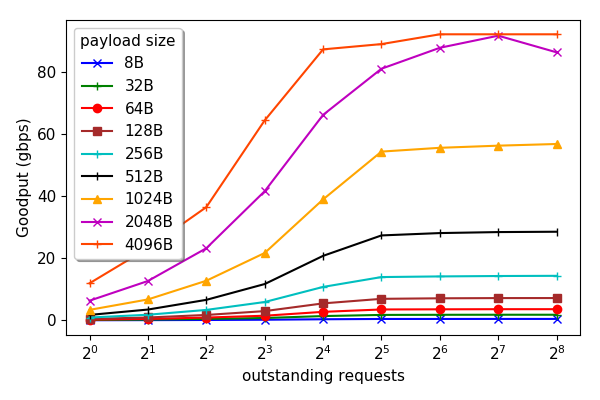
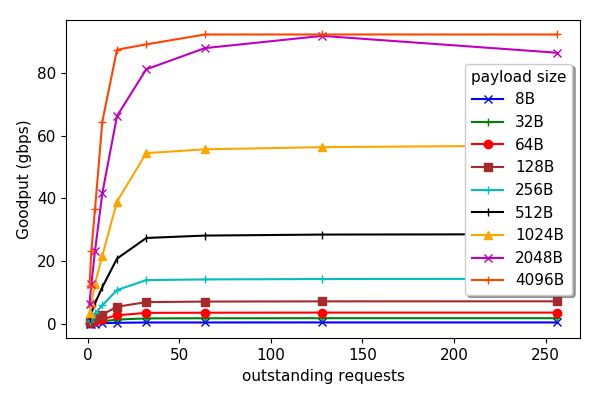
randomized access to mem buffers did not help

diff --git a/rdma/src/rdma_client.c b/rdma/src/rdma_client.c
@@ -55,6 +55,24 @@ static int check_src_dst()
     return memcmp((void*) src, (void*) dst, strlen(src));
 }
 
+
+/* A fast but good enough random number generator. Good enough for what? */
+/* Courtesy of https://stackoverflow.com/questions/1640258/need-a-fast-random-generator-for-c */
+unsigned long rand_xorshf96(void) {          //period 2^96-1
+    static unsigned long x=123456789, y=362436069, z=521288629;
+    unsigned long t;
+    x ^= x << 16;
+    x ^= x >> 5;
+    x ^= x << 1;
+
+    t = x;
+    x = y;
+    y = z;
+    z = t ^ x ^ y;
+    return z;
+}
+
+
 /* This function prepares client side connection resources for an RDMA connection */
 static int client_prepare_connection(struct sockaddr_in *s_addr)
 {
@@ -154,8 +172,9 @@ static int client_prepare_connection(struct sockaddr_in *s_addr)
         rdma_error("Failed to get device info, errno: %d\n", -errno);
         return -errno;
     }
-    debug("got device info. max qpe: %d, sge: %d, cqe: %d, max rd/at qp depth/outstanding: %d/%d \n", dev_attr.max_qp_wr, 
-        dev_attr.max_sge, dev_attr.max_cqe, dev_attr.max_qp_init_rd_atom, dev_attr.max_qp_rd_atom);
+    printf("got device info. max qpe: %d, sge: %d, cqe: %d, max rd/at qp depth/outstanding: %d/%d max mr size: %lu\n", 
+        dev_attr.max_qp_wr, dev_attr.max_sge, dev_attr.max_cqe, dev_attr.max_qp_init_rd_atom, dev_attr.max_qp_rd_atom, 
+        dev_attr.max_mr_size);
 
     /* Now we create a completion queue (CQ) where actual I/O 
      * completion metadata is placed. The metadata is packed into a structure 
@@ -423,17 +442,14 @@ static int client_remote_memory_ops()
     client_send_wr.wr.rdma.rkey = server_metadata_attr.stag.remote_stag;
     client_send_wr.wr.rdma.remote_addr = server_metadata_attr.address;
     /* Now we post it */
-    ret = ibv_post_send(client_qp, 
-               &client_send_wr,
-           &bad_client_send_wr);
+    ret = ibv_post_send(client_qp, &client_send_wr, &bad_client_send_wr);
     if (ret) {
         rdma_error("Failed to read client dst buffer from the master, errno: %d \n", 
                 -errno);
         return -errno;
     }
     /* at this point we are expecting 1 work completion for the write */
-    ret = process_work_completion_events(io_completion_channel, 
-            &wc, 1);
+    ret = process_work_completion_events(io_completion_channel, &wc, 1);
     if(ret != 1) {
         rdma_error("We failed to get 1 work completions , ret = %d \n",
                 ret);
@@ -490,9 +506,9 @@ static double measure_xput(
 
     /* Allocate client buffers to read/write from (use the same piece of underlying memory) */
     mr_buffers = (struct ibv_mr**) malloc(num_lbuffers * sizeof(struct ibv_mr*));
-    size_t buf_size = msg_size * num_concur;
+    size_t buf_size = msg_size;
     mr_buffers[0] = rdma_buffer_alloc(pd,
-        buf_size,
+        4096,       // FIXME
         (IBV_ACCESS_LOCAL_WRITE | 
             IBV_ACCESS_REMOTE_WRITE | 
             IBV_ACCESS_REMOTE_READ));
@@ -504,11 +520,10 @@ static double measure_xput(
         mr_buffers[0]->addr, mr_buffers[0]->length, mr_buffers[0]->handle, mr_buffers[0]->lkey, mr_buffers[0]->rkey);
 
     if (num_lbuffers > 1) {
-        /* Register rest of the buffers using same piece of memory */
+        /* Register rest of the buffers using same piece of memory FIXME */
         for (i = 1; i < num_lbuffers; i++) {
-            mr_buffers[i] = rdma_buffer_register(pd,
-                mr_buffers[0]->addr,
-                buf_size,
+            mr_buffers[i] = rdma_buffer_alloc(pd,
+                4096,       // FIXME
                 (IBV_ACCESS_LOCAL_WRITE | 
                     IBV_ACCESS_REMOTE_WRITE | 
                     IBV_ACCESS_REMOTE_READ));
@@ -525,8 +540,9 @@ static double measure_xput(
 
     /* For sanity check, fill the client buffer with different alphabets in each message. 
      * We can verify this by reading the server buffer later. Only works for RDMA WRITEs though */
-    for (i = 0; i < num_concur; i++)
-        memset(mr_buffers[0]->addr + (i*msg_size), 'a' + i%26, msg_size);
+    // FIXME
+    // for (i = 0; i < num_concur; i++)
+    //     memset(mr_buffers[0]->addr + (i*msg_size), 'a' + i%26, msg_size);
 
     /* Prepare a template WR for RDMA ops */
     client_send_sge.addr = (uint64_t) mr_buffers[0]->addr;  
@@ -553,9 +569,10 @@ static double measure_xput(
     uint64_t wr_posted = 0, wr_acked = 0;
     for (i = 0; i < num_concur; i++) {
         /* it is safe to reuse client_send_wr object after post_() returns */
+        client_send_sge.addr = (uint64_t) mr_buffers[buf_num]->addr;  
         client_send_sge.lkey = mr_buffers[buf_num]->lkey;   /* Sets which MR to use to access the local address */
         client_send_wr.wr_id = buf_offset;                  /* User-assigned id to recognize this WR on completion */
-        client_send_sge.addr = (uint64_t) buf_ptr;          /* Sets which mem addr to read from/write to locally */
+        // client_send_sge.addr = (uint64_t) buf_ptr;          /* Sets which mem addr to read from/write to locally */  // FIXME
         client_send_wr.wr.rdma.remote_addr = server_metadata_attr.address + buf_offset; 
         ret = ibv_post_send(client_qp, 
                 &client_send_wr,
@@ -568,7 +585,8 @@ static double measure_xput(
         wr_posted++;
         buf_offset  = (buf_offset + msg_size) % buf_size;
 	    buf_ptr     = mr_buffers[0]->addr + buf_offset;     /* We can always use mr_buffers[0] as all buffers point to same memory */
-        buf_num     = (buf_num++) % num_lbuffers;
+        // buf_num     = (buf_num++) % num_lbuffers;
+        buf_num     = rand_xorshf96() % num_lbuffers;
     }
 
     /* at this point we are expecting work completions for the requests */
@@ -625,7 +643,8 @@ static double measure_xput(
                 buf_ptr     = mr_buffers[0]->addr + buf_offset;
                 client_send_sge.lkey = mr_buffers[buf_num]->lkey; 
                 client_send_wr.wr_id = buf_offset;              /* User-assigned id to recognize this WR on completion */
-                client_send_sge.addr = (uint64_t) buf_ptr; 
+                // client_send_sge.addr = (uint64_t) buf_ptr;   // FIXME
+                client_send_sge.addr = (uint64_t) mr_buffers[buf_num]->addr;  
                 client_send_wr.wr.rdma.remote_addr = server_metadata_attr.address + buf_offset;
                 ret = ibv_post_send(client_qp, 
                         &client_send_wr,
@@ -636,6 +655,7 @@ static double measure_xput(
                 }
                 wr_posted++;
                 buf_num     = (buf_num++) % num_lbuffers;
+                buf_num     = rand_xorshf96() % num_lbuffers;
             }
         }
 
@@ -654,7 +674,7 @@ static double measure_xput(
 
     /* SANITY CHECK */
     /* In case of RDMA writes, perform a sanity check by reading the server-side buffer and checking its content */
-    if (rdma_op == RDMA_WRITE_OP) {
+    if (0) {        // FIXME
         /* Clear the local buffer and issue a big read */
         memset(mr_buffers[0]->addr, 0, num_concur * msg_size); 
 
@@ -957,7 +977,8 @@ int main(int argc, char **argv) {
         int msg_size_incr = 64;
 
         int min_num_mbuf = num_mbuf == 0 ? 1 : num_mbuf;
-        int max_num_mbuf = num_mbuf == 0 ? MAX_MR : num_mbuf;
+        // int max_num_mbuf = num_mbuf == 0 ? MAX_MR : num_mbuf;
+        int max_num_mbuf = num_mbuf == 0 ? 1e6 : num_mbuf;
 
         /* Get roundtrip latencies for ops */
         if (rtt_flag) {
@@ -1006,7 +1027,7 @@ int main(int argc, char **argv) {
             printf("=========== Xput =============\n");
             printf("msg size,window size,mbufs,write_ops,write_gbps,read_ops,read_gbps\n");
             for (num_concur = min_num_concur; num_concur <= max_num_concur; num_concur *= 2)
-                for (num_mbuf = min_num_mbuf; num_mbuf <= max_num_mbuf; num_mbuf *= 2)
+                for (num_mbuf = min_num_mbuf; num_mbuf <= max_num_mbuf; num_mbuf += 500)    // FIXME
                     for (msg_size = min_msg_size; msg_size <= max_msg_size; msg_size += 64) {
                         double wput_ops = measure_xput(msg_size, num_concur, RDMA_WRITE_OP, MR_MODE_PRE_REGISTER_WITH_ROTATE, num_mbuf);
                         double rput_ops = (num_concur <= MAX_RD_AT_IN_FLIGHT) ? measure_xput(msg_size, num_concur, RDMA_READ_OP, MR_MODE_PRE_REGISTER_WITH_ROTATE, num_mbuf) : 0;

diff --git a/rdma/src/rdma_common.h b/rdma/src/rdma_common.h
@@ -58,7 +58,7 @@
 /* Capacity of the completion queue (CQ) (limited by "max_cqe" dev attr) */
 #define CQ_CAPACITY (2*MAX_WR)
 
-/* MAX SGE capacity (limited by "max_sge" dev attr) */
+/* MAX SGE capacity (limited by "max_sge" dev attr which is 30 for CX-5s) */
 #define MAX_SGE (2)
 
 /* MAX outstnading READ/ATOMIC ops 
